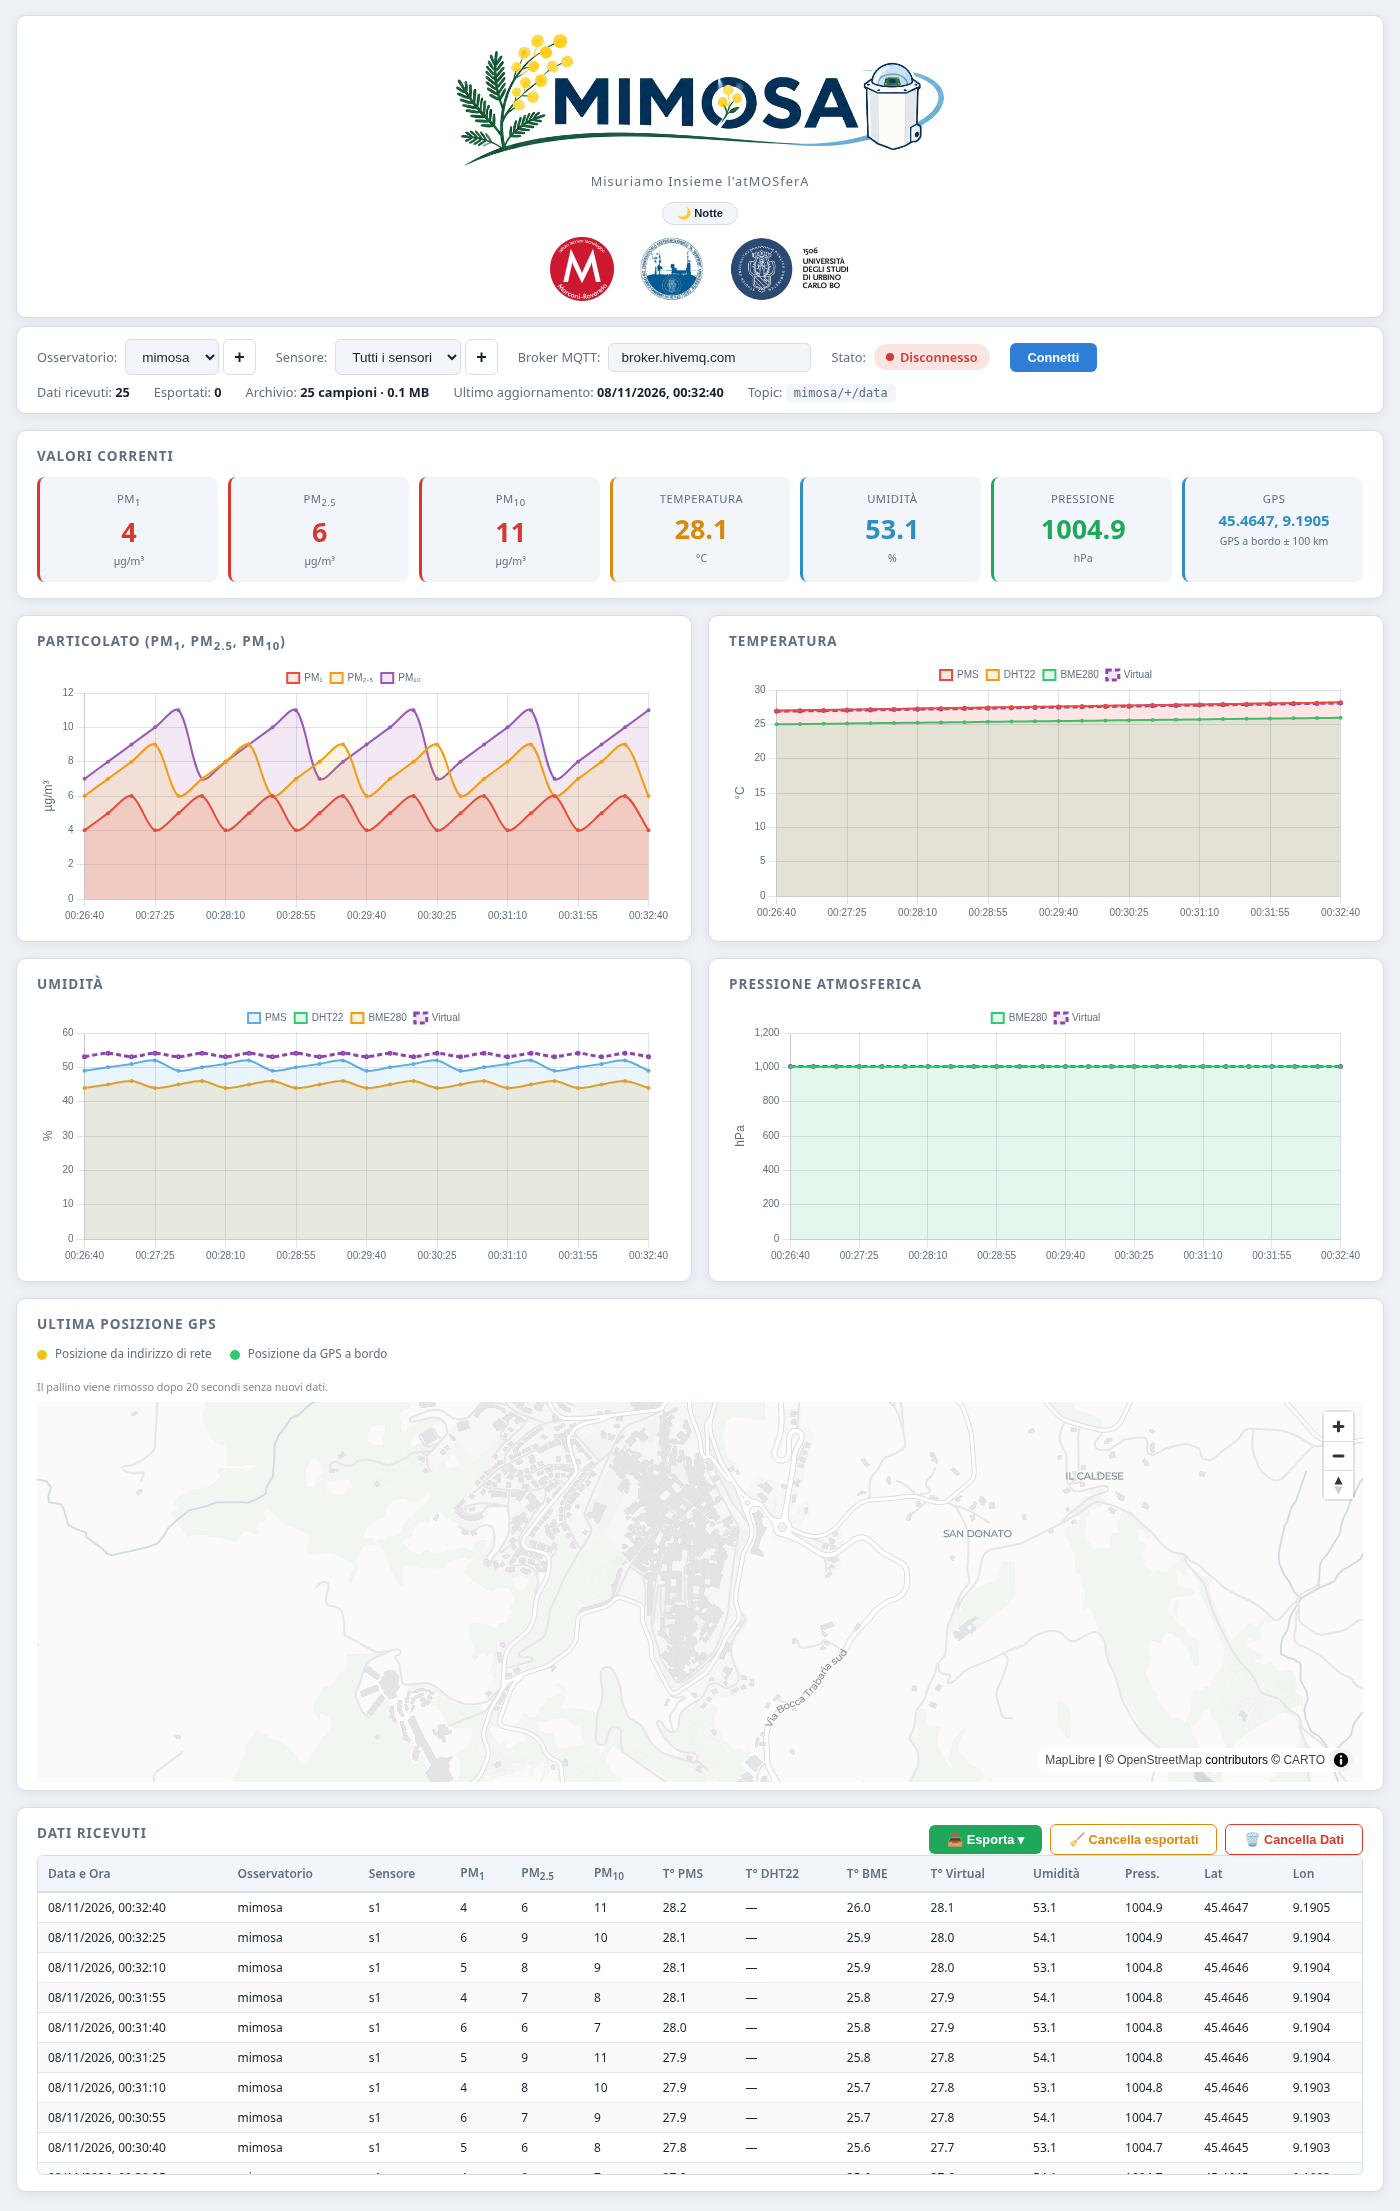
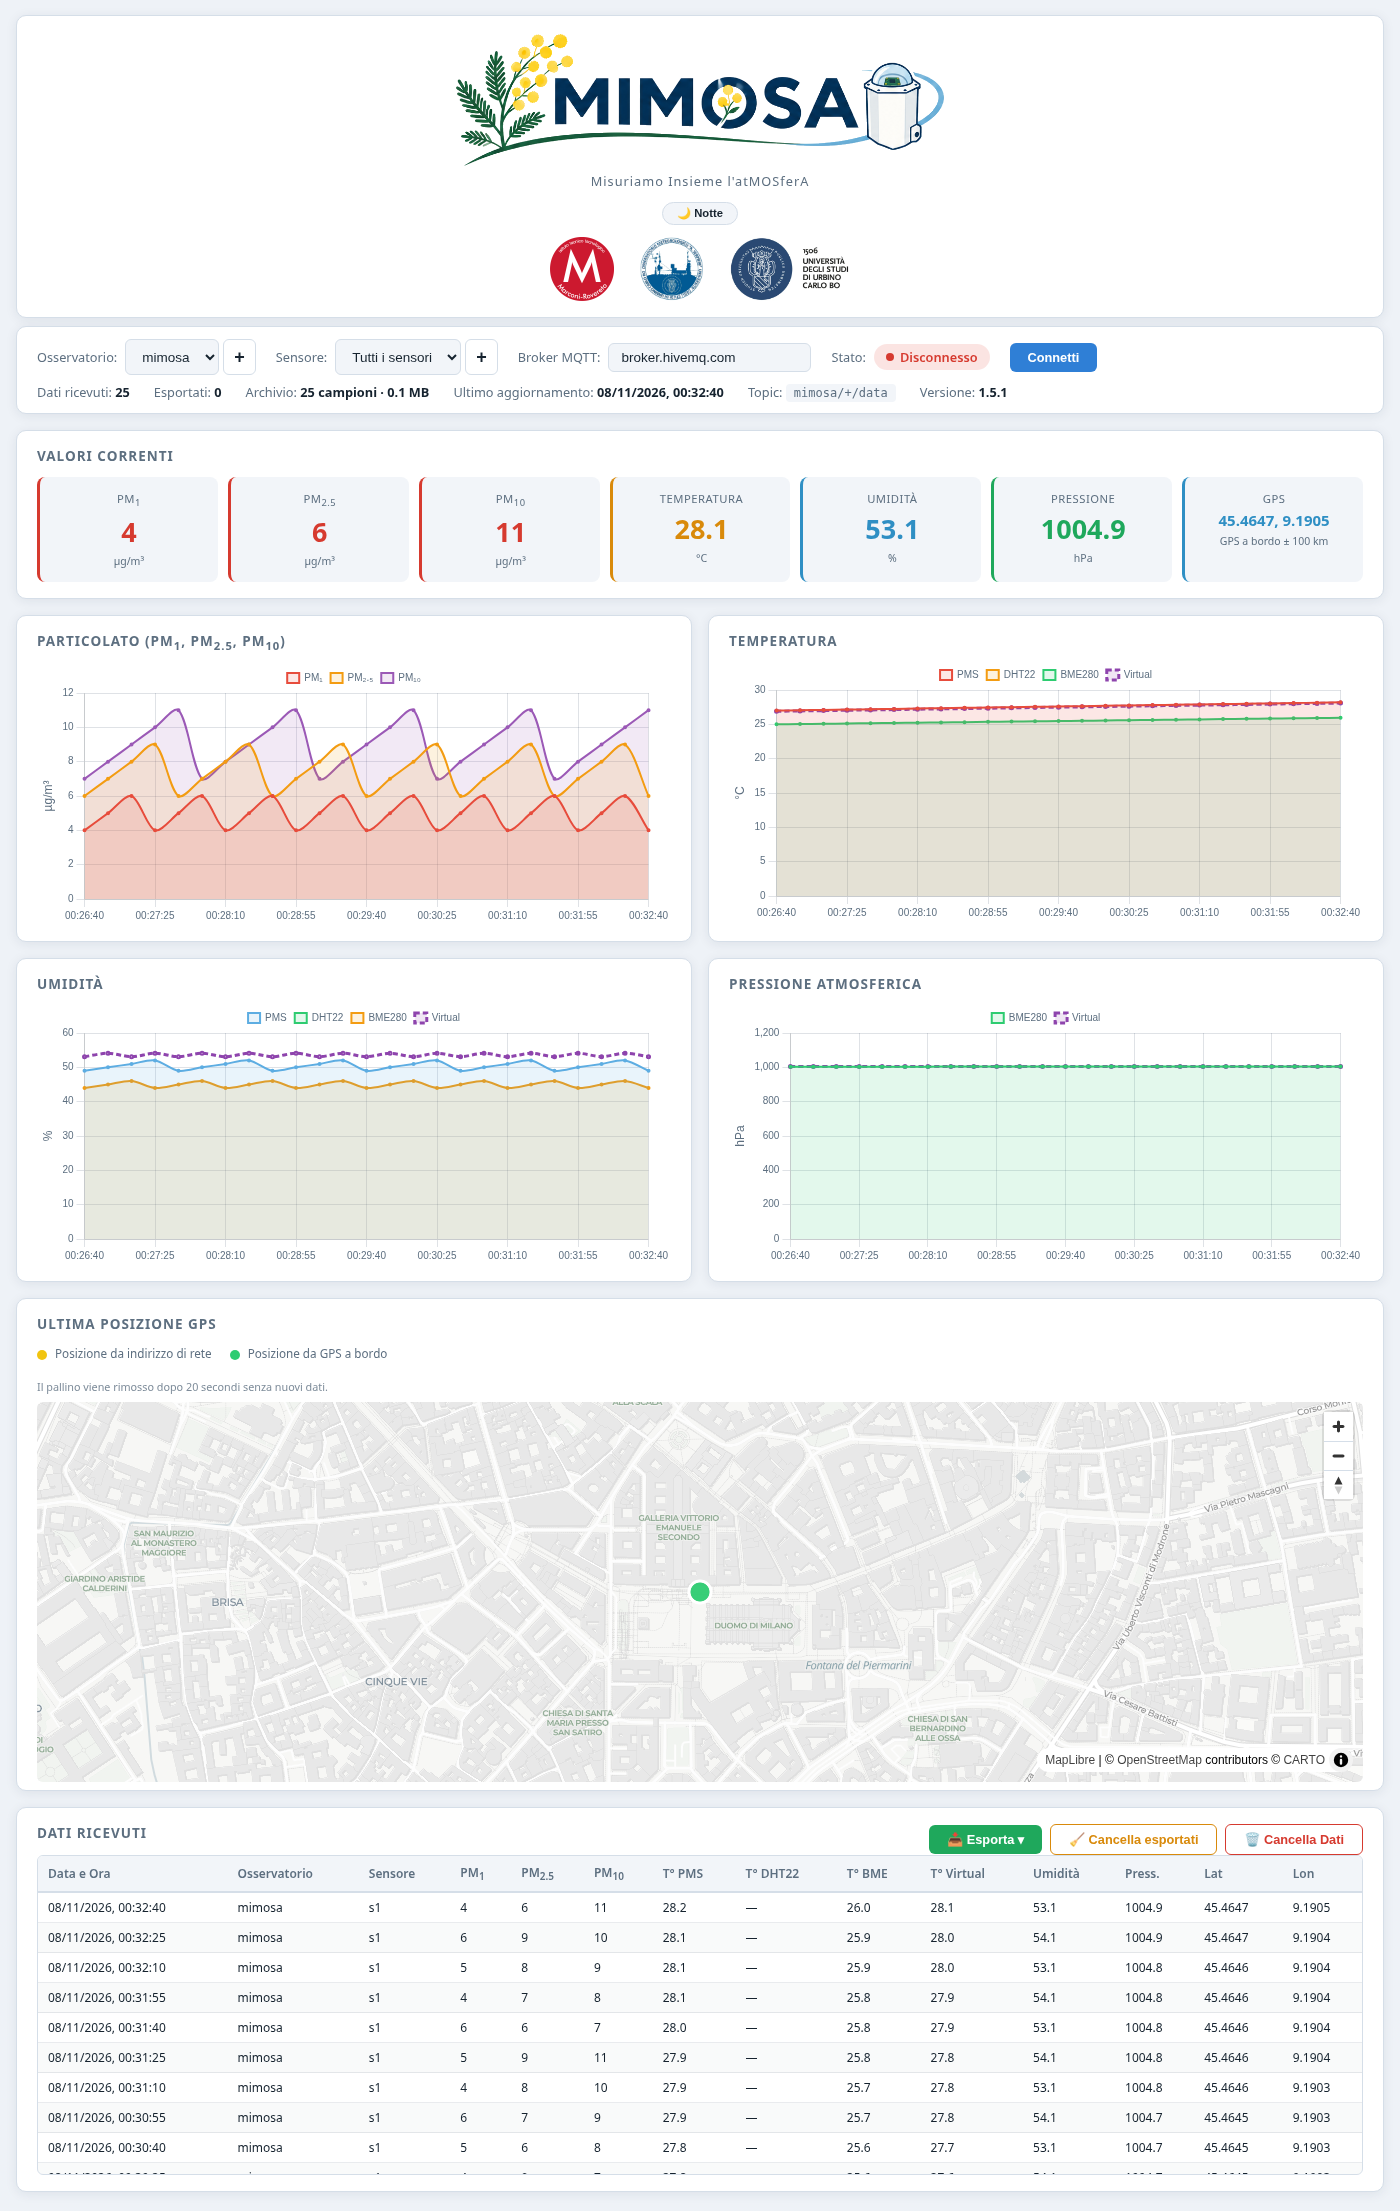
docs: note di rilascio v1.5.1

diff --git a/RELEASE_NOTES.md b/RELEASE_NOTES.md
@@ -1,42 +1,41 @@
-# MIMOSA v1.5.0 — Archivio SQLite e MQTT lato server
+# MIMOSA v1.5.1 — Dati in tempo reale e dashboard locale
 
-Release del 15 novembre 2026.
+Release del 18 novembre 2026.
 
-## La novità principale: i dati vivono sul server
+## Correzioni principali
 
-Fino alla 1.4.0 lo storico era nel browser e si fermava a **5.000 campioni**
-(5.001 righe nell'export CSV). Ora il server Go riceve i messaggi MQTT, li salva
-in un database **SQLite** (`mimosa.db`) e li serve alla dashboard:
+- **Dati in tempo reale (bug SSE)** — il server inviava gli eventi senza nome e
+  il browser ascoltava eventi `sample`/`status` che non arrivavano mai. Effetto:
+  la dashboard sembrava connessa, ma i dati comparivano solo cambiando sensore
+  (o "a blocchi" quando si interagiva). Ora gli eventi sono nominati e la
+  tabella/grafici/card si aggiornano a ogni campione.
+- **Polling di sicurezza** — anche se SSE viene bloccato o bufferizzato da
+  proxy/browser/rete, la dashboard si riallinea ogni 4 secondi e quando si
+  ritorna sulla scheda.
+- **Grafici e mappa senza CDN** — Chart.js e MapLibre sono inclusi nel binario
+  (`src/vendor/`). Niente più `Cannot read properties of undefined (reading
+  'data')` su reti che bloccano jsdelivr; serve internet solo per le tile della
+  mappa.
+- **`NetworkError when attempting to fetch resource`** — succedeva aprendo la
+  dashboard come file (`file:///.../index.html`). Ora compare un avviso chiaro
+  che indica di usare `http://localhost:8080`; migliorata anche l'apertura
+  automatica del browser (xdg-open → gio open → sensible-browser →
+  firefox/chromium) e il controllo iniziale del server con retry.
+- **Posizione GPS** — viene mostrata subito anche aprendo la dashboard con
+  storico recente (`received_at`); il pallino viene rimosso dopo 20 secondi
+  senza dati (comportamento assunto, da confermare col professore).
+- **Robustezza** — guardie se una libreria grafica non è disponibile, errori SSE
+  non più silenziosi, versione visibile nella barra di stato.
 
-- **Nessun limite di 5.000 campioni**: lo storico cresce sul disco.
-- **I dati restano** anche chiudendo il browser, ricaricando la pagina o
-  riavviando MIMOSA (finché c'è il file `mimosa.db`).
-- **Export CSV/JSON completo**, generato dal server in streaming: scarica tutto
-  lo storico della selezione, non più solo gli ultimi 50 campioni.
-- **Raccolta anche a browser chiuso**: all'avvio il server si ricollega da solo
-  all'ultima sottoscrizione (finché non premi "Disconnetti").
-- **Migrazione automatica** dei campioni che la 1.4.0 teneva in `localStorage`:
-  vengono importati al primo avvio.
+## Note per l'aggiornamento
 
-## Altre novità
-
-- **MQTT lato server**: il browser non si collega più al broker, lo fa il
-  server. Il campo broker usa **TCP 1883** di default; sono supportati anche
-  `ssl://host:8883`, `ws://host:porta/percorso` e `wss://host:porta/percorso`.
-- **Data e Ora con anno** nella tabella e nell'export.
-- **Legenda GPS corretta**: 🟡 giallo = posizione da indirizzo di rete,
-  🟢 verde = posizione da GPS a bordo.
-- **Nuovo logo MIMOSA e header** come da mockup: logo grande al centro, altri
-  loghi sotto centrati e più piccoli. Screenshot aggiornato.
-- Barra di stato con **Archivio**: campioni totali e spazio occupato dal
-  database.
-
-## Da confermare
-
-Nella mail del prof. la frase *"se non arrivano dati da 20 secondi…"* era
-incompleta. Comportamento attuale: **dopo 20 secondi senza nuovi dati il pallino
-viene rimosso dalla mappa**. Da confermare (alternative possibili: pallino
-grigio oppure ultima posizione mantenuta).
+- La **1.5.1 sostituisce la 1.5.0**: scarica il nuovo binario.
+- Apri sempre l'URL `http://localhost:8080` stampato all'avvio; **non aprire
+  `index.html` come file** (le API del server non sono raggiungibili da
+  `file://`).
+- Il database `mimosa.db` della 1.5.0 è compatibile: nessuna migrazione.
+- Se il broker non risponde sulla porta `1883`, usa `ssl://host:8883` oppure un
+  URL `ws://`/`wss://`.
 
 ## Download
 
@@ -61,25 +60,14 @@ chmod +x mimosa-linux-amd64        # oppure mimosa-darwin-*
 Doppio click su `mimosa-windows-amd64.exe`; se compare SmartScreen:
 *Ulteriori informazioni* → *Esegui comunque*.
 
-Il browser si apre su `http://localhost:8080`. Seleziona **Osservatorio** e
-**Sensore**, controlla il broker MQTT e premi **Connetti**.
-Il database viene creato come `mimosa.db` nella cartella di avvio; si può
-cambiare con `--db FILE`.
-
-## Note per l'aggiornamento dalla 1.4.0
-
-- Al primo avvio i vecchi campioni salvati dal browser vengono importati nel
-  nuovo database.
-- Il broker adesso viene contattato dal server: se la rete blocca la porta
-  **1883**, usa `ssl://host:8883` oppure un URL `ws://`/`wss://`.
-- Lo storico non dipende più dal browser: fai un backup di `mimosa.db` (a
-  programma fermo) o esporta CSV/JSON.
+Il browser si apre su `http://localhost:8080`. Se non si apre, copia l'URL
+stampato nel terminale e aprilo a mano (non aprire il file `index.html`).
 
 ## Checksums SHA-256
 
 ```text
-6c050fda81f32a406ad8b374d6e6ffbef7f59a3ef8b790b6a94d445550d33876  mimosa-darwin-amd64
-a7f45579fc8468cf1208d0e9ebf13dc7099dde2c5794552acf6515c7834cb922  mimosa-darwin-arm64
-d48a67cf3dbdab8298f14f0b9bc6d8e5e999344fc7285135518f750a94794863  mimosa-linux-amd64
-58ed8772f7f6da11d83cb9556cd0eb8a2a0cc592c3e1f9940db11225ded06952  mimosa-windows-amd64.exe
+a440b71f9128f34bf97ffb6864ea132029fbd8062d7638c259a75bdfd21af028  mimosa-darwin-amd64
+700180ff33716fdd959ae196e5a0022566205c72a678b5afd9118116eeb3cfd8  mimosa-darwin-arm64
+e2e6c1bd6e5f7339562f2395c26c51ea105812d2a52e9b6da0abb7752f0d0f5d  mimosa-linux-amd64
+0fa8746705544dfbe0b586b72148b6fd8eaee45e295386bbc10b42765cf52e8a  mimosa-windows-amd64.exe
 ```

diff --git a/README.md b/README.md
@@ -32,9 +32,10 @@
 
 - Un PC con **Windows, macOS o Linux**.
 - Un **browser moderno** (Chrome, Edge, Firefox o Safari).
-- Una **connessione a internet**: grafici e mappa si caricano da CDN online.
-  Il collegamento al broker MQTT è fatto dal server locale. Senza internet la
-  pagina si apre, ma grafici e mappa potrebbero non comparire.
+- Una **connessione a internet** solo per le **tile della mappa**: le librerie
+  di grafici e mappa sono incluse nel binario. Il collegamento al broker MQTT è
+  fatto dal server locale. Senza internet la dashboard e i grafici funzionano,
+  la mappa può restare grigia.
 - Spazio su disco per il **database dell'archivio** (file `mimosa.db`).
 - *(solo se compili dal codice sorgente)* **Go 1.26 o superiore**.
 
@@ -85,7 +86,9 @@ chmod +x mimosa-linux-amd64
 
 ### Passo 3 — Usa la dashboard
 
-Il browser si apre da solo su **http://localhost:8080** (se non succede, aprirlo a mano).
+Il browser si apre da solo su **http://localhost:8080**. Se non si apre, copia
+l'URL stampato nel terminale e aprilo a mano: **non aprire il file `index.html`**
+(la pagina ha bisogno delle API del server e da `file://` non funziona).
 
 1. **Osservatorio**: lascia `mimosa` (o premi **+** per aggiungerne uno).
 2. **Sensore**: scegli il tuo sensore, oppure `Tutti i sensori`.
@@ -168,6 +171,7 @@ Il topic pubblicato è `{osservatorio}/{sensore}/data`.
 | `./mimosa`                                                       | Avvia la dashboard                             |
 | `./mimosa --dev`                                                 | Avvia leggendo i file da disco (sviluppo)      |
 | `./mimosa --help`                                                | Mostra l'aiuto                                 |
+| `./mimosa --version`                                             | Mostra la versione                             |
 | `./mimosa --test --sensore NOME`                                 | Pubblica dati di test in continuo              |
 | `./mimosa --test --sensore NOME --count 10`                      | Pubblica 10 messaggi di test                   |
 | `./mimosa --db archivio.db`                                      | Usa un database SQLite diverso                 |
@@ -311,7 +315,8 @@ riga evidenziata in tabella):
 
 Serve **Go 1.26+**. L'archivio usa SQLite in **puro Go**
 (`modernc.org/sqlite`): non serve CGO e il cross-compile con `CGO_ENABLED=0`
-funziona come prima.
+funziona come prima. Chart.js e MapLibre sono inclusi in `src/vendor/` e
+vengono incorporati nel binario: la dashboard non dipende più da CDN.
 
 ```bash
 git clone https://github.com/Paolo-Comper/mimosa-dashboard.git
@@ -343,14 +348,15 @@ node tests/logica.test.js     # logica della dashboard (Node)
 
 | Problema | Soluzione |
 | -------- | --------- |
-| La pagina si apre ma **grafici e mappa non compaiono** | Serve internet: grafici e mappa sono caricati da CDN online. |
+| **"NetworkError when attempting to fetch resource" / "Failed to fetch"** | Stai aprendo `index.html` come file o il server non è raggiungibile. Avvia l'eseguibile e apri l'URL `http://localhost:8080` stampato nel terminale (non il file). |
 | **Il browser non si apre da solo** | Vai a `http://localhost:8080` a mano. |
 | **"Porta 8080 occupata"** | MIMOSA libera la porta da sola; se persiste usa un'altra porta: `PORT=9090 ./mimosa`. |
-| **Non arrivano dati** | Premi **Connetti** e controlla broker e topic `{osservatorio}/{sensore}/data`. |
+| **Non arrivano dati** | Premi **Connetti** e controlla broker e topic `{osservatorio}/{sensore}/data`. La dashboard si aggiorna anche con un polling di sicurezza ogni 4 s. |
+| **I dati si aggiornavano solo cambiando sensore** | Era un bug della 1.5.0 (eventi SSE senza nome): risolto nella 1.5.1. Scarica l'ultima versione. |
 | **Connesso ma "Dati ricevuti: 0"** | Il topic ricevuto non corrisponde a osservatorio/sensore selezionati: controlla il topic mostrato nella barra. Sono supportati anche topic con più livelli e con `/` iniziale (es. `/uniurb/.../data`). |
 | **Errore di connessione al broker** | Il server usa MQTT **TCP** (porta `1883`). Se la rete blocca la 1883 usa `ssl://host:8883` (TLS) oppure `ws://host:porta/percorso` / `wss://host:porta/percorso` (WebSocket). Controlla host, porta e firewall. |
 | **Windows: il firewall chiede il permesso** | Accetta (serve per la porta locale). |
-| **La mappa è grigia / non si carica** | Serve internet; attendi qualche secondo dal primo avvio. |
+| **La mappa è grigia / non si carica** | Le librerie sono locali; servono internet e qualche secondo per le tile della mappa. |
 | **Il database non si apre / "database is locked"** | Assicurati di avere i permessi di scrittura sulla cartella di `mimosa.db` e non avviare due istanze di MIMOSA sullo stesso file. |
 | **Dati vecchi con nomi strani** | I campioni del vecchio storage del browser vengono importati automaticamente una volta al primo avvio; se l'import non riesce viene ritentato al successivo. |
 
